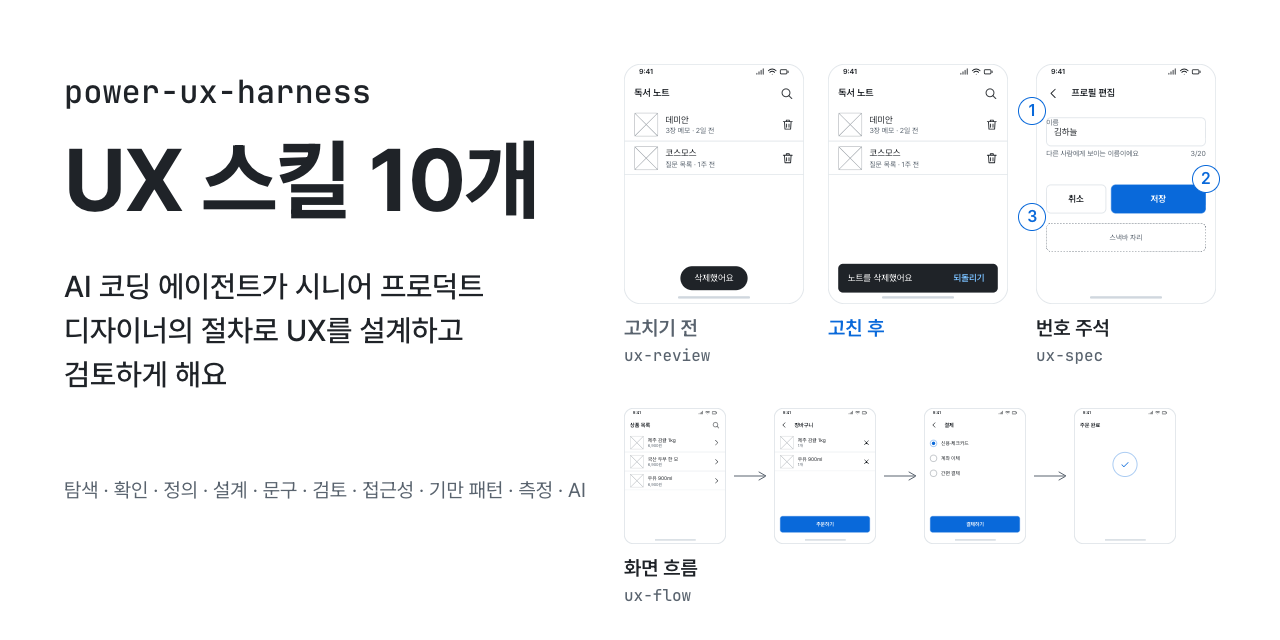
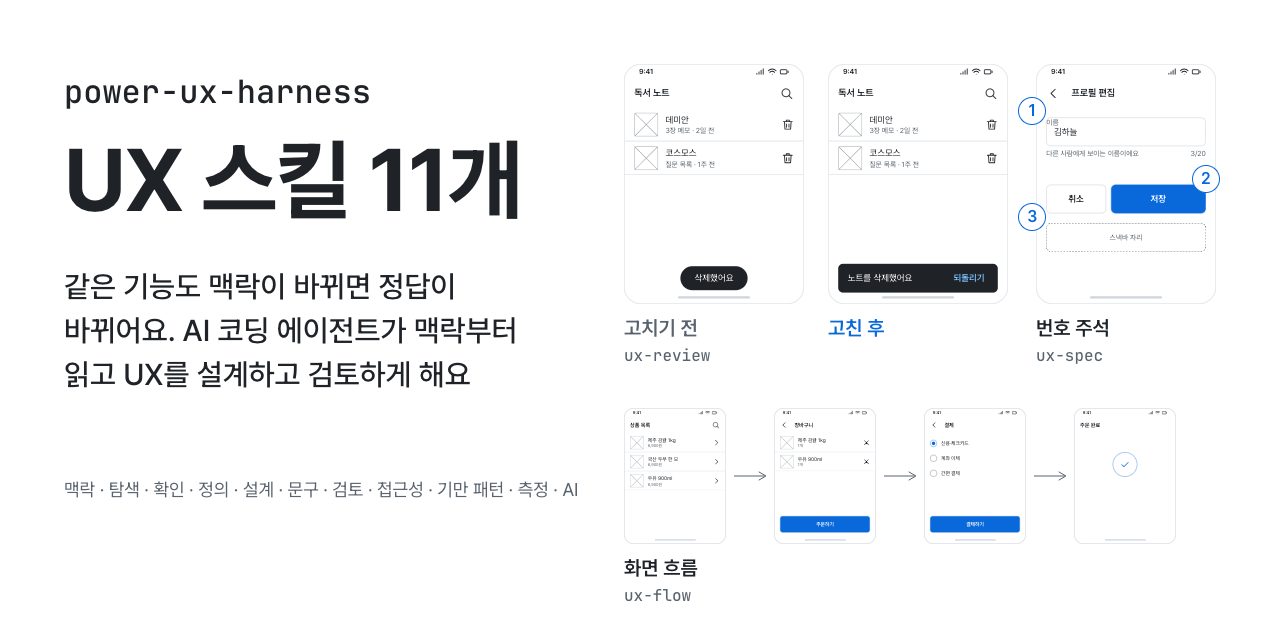
feat(demos): 링크 공유 표지를 스킬 11개와 맥락 소개로 갱신

diff --git a/demos/scenes/social.html b/demos/scenes/social.html
@@ -35,7 +35,8 @@
         left: 64px;
         top: 472px;
         width: 540px;
-        font: 400 20px/36px var(--ui);
+        font: 400 18px/36px var(--ui);
+        white-space: nowrap;
         color: var(--muted);
       }
       .lb {
@@ -63,9 +64,11 @@
   <body>
     <div id="stage">
       <div id="repo" class="abs"></div>
-      <div id="big" class="abs">UX 스킬 10개</div>
-      <div id="desc" class="abs">AI 코딩 에이전트가 시니어 프로덕트 디자이너의 절차로 UX를 설계하고 검토하게 해요</div>
-      <div id="steps" class="abs">탐색 · 확인 · 정의 · 설계 · 문구 · 검토 · 접근성 · 기만 패턴 · 측정 · AI</div>
+      <div id="big" class="abs">UX 스킬 11개</div>
+      <div id="desc" class="abs">
+        같은 기능도 맥락이 바뀌면 정답이 바뀌어요. AI 코딩 에이전트가 맥락부터 읽고 UX를 설계하고 검토하게 해요
+      </div>
+      <div id="steps" class="abs">맥락 · 탐색 · 확인 · 정의 · 설계 · 문구 · 검토 · 접근성 · 기만 패턴 · 측정 · AI</div>
     </div>
     <script>
       document.getElementById("repo").textContent = BRAND;
